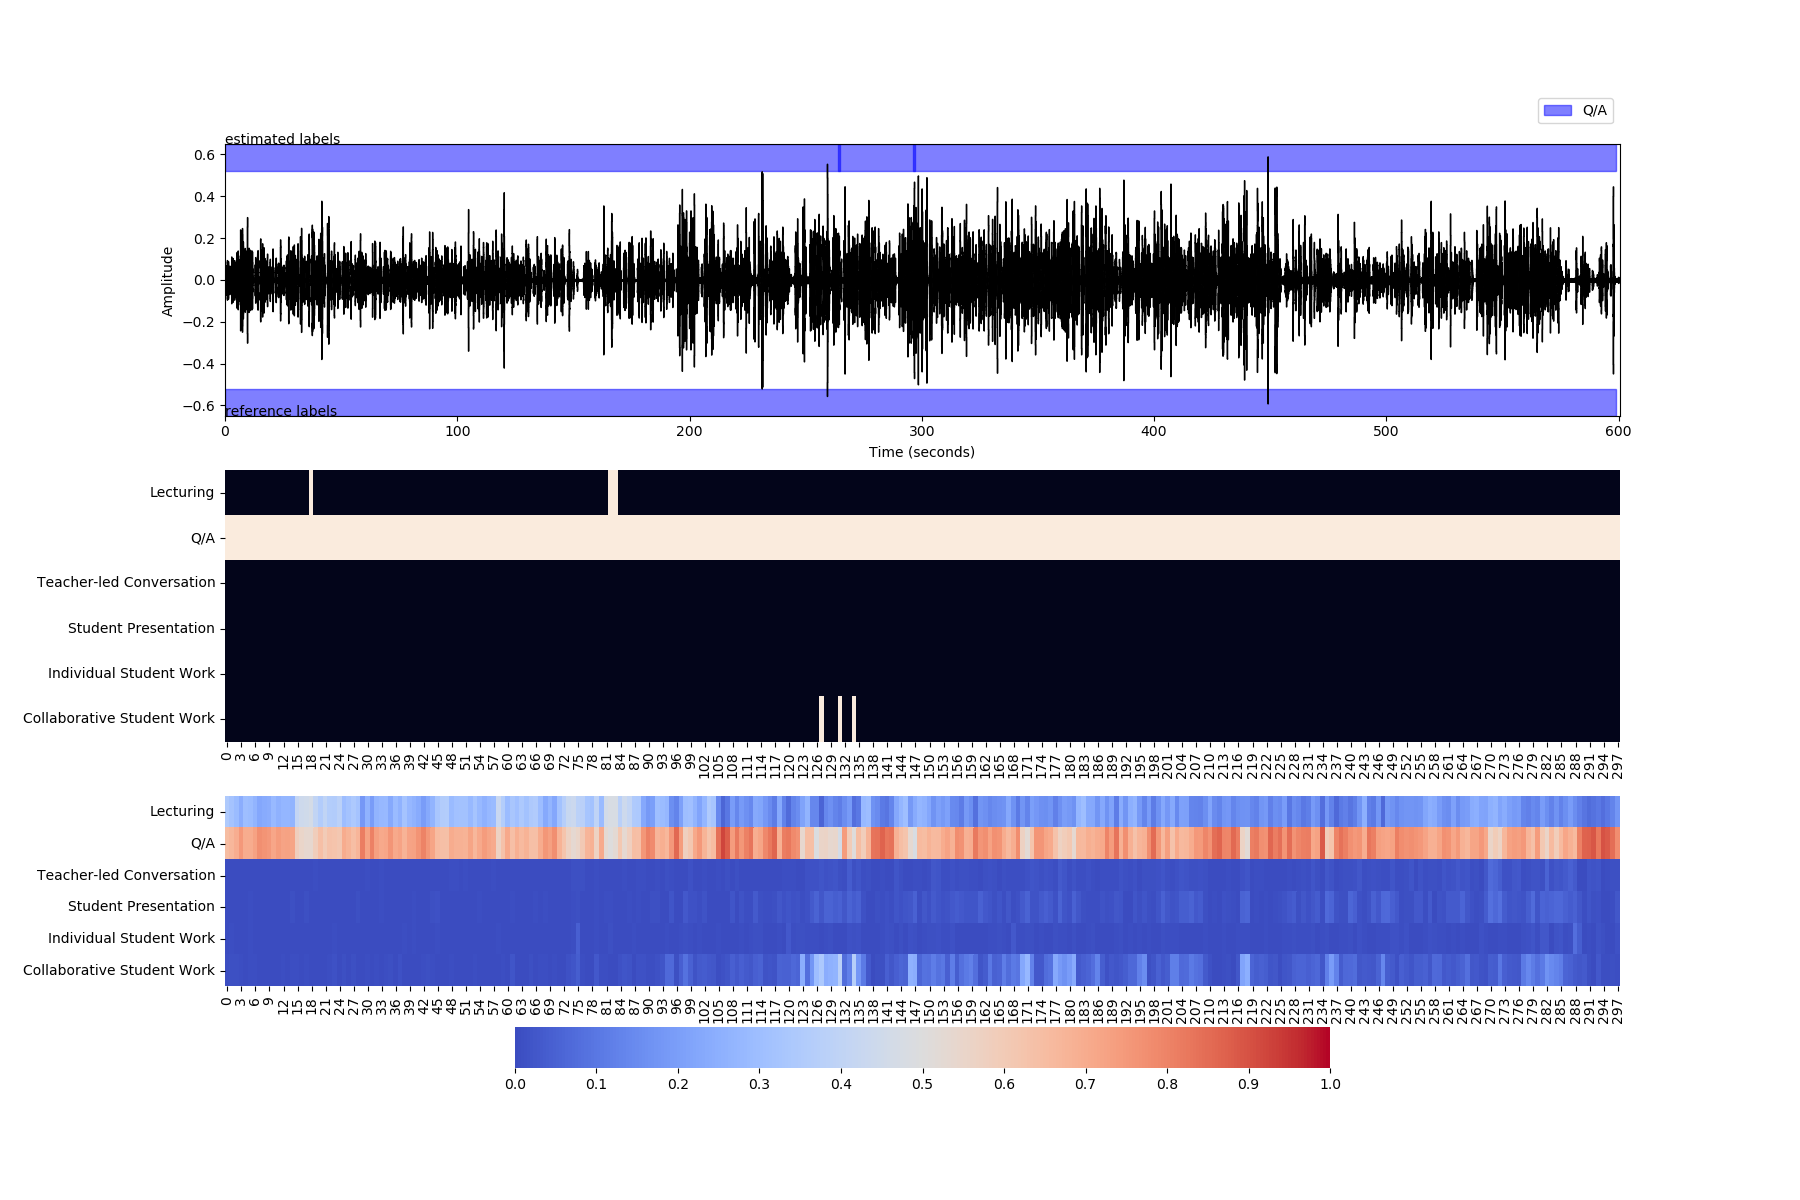
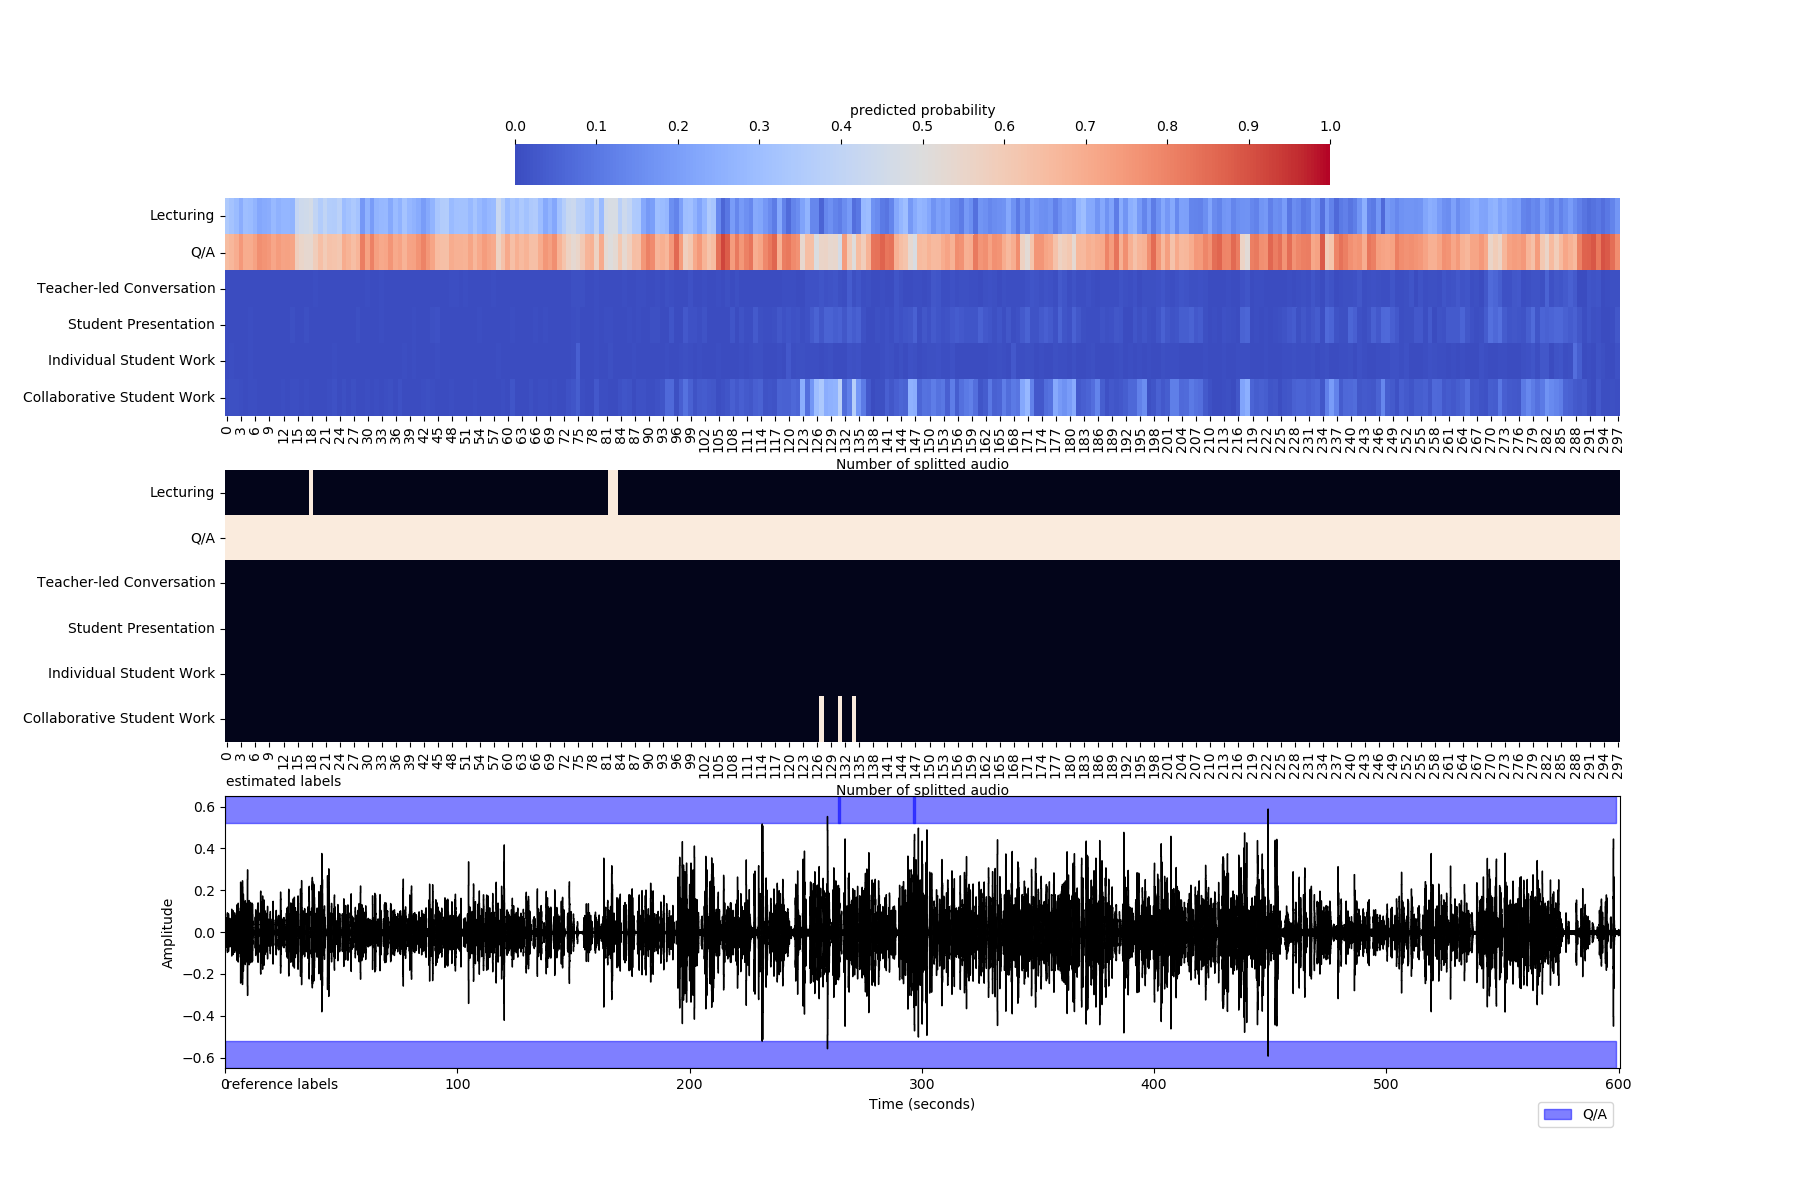
Visualize Features

diff --git a/VisualizeFeature.py b/VisualizeFeature.py
@@ -1,0 +1,180 @@
+import librosa
+import librosa.display
+import matplotlib.pyplot as plt
+import seaborn as sns
+import pickle
+import public_func as F
+import numpy as np
+import os
+from WavToFeatures import WavToFeatures
+from mpl_toolkits.axes_grid1.inset_locator import inset_axes
+import json
+import warnings
+
+
+class Visualizer:
+    def __init__(self, file_name, audio_path, annot_path, cache_path, frac_t, long_frac_t, long_long_frac_t, step_t, target_class_version=0):
+        # init info
+        self.frac_t = frac_t
+        self.step_t = step_t
+        self.long_frac_t = long_frac_t
+        self.long_long_frac_t = long_long_frac_t
+        self.target_class_version = target_class_version
+        self.file_name, self.audio_path, self.annot_path, self.cache_path = file_name, audio_path, annot_path, cache_path
+
+        self.wav, self.sr = librosa.load(os.path.join(audio_path, file_name), sr=22050)
+        with open(annot_path, 'r') as f:
+            self.annot = json.load(f)
+        self.metadict = self.get_metadict(file_name)
+        self.label_dict = F.get_label_dict(target_class_version)
+        self.reverse_label_dict = F.get_reverse_label_dict(target_class_version)
+        self.color_dict = {
+            0: 'red',
+            1: 'blue',
+            2: 'green',
+            3: 'yellow',
+            4: 'orange',
+            5: 'black',
+            6: 'brown'}
+        
+    def get_metadict(self, file_name):
+        for metadict in self.annot:
+            # note: this way to get file name is not ideal
+            file_name_mp4 = metadict['video_url'].split('/')[-1]
+            file_name_wav = file_name_mp4.replace('.mp4', '.wav')
+            if file_name == file_name_wav:
+                return metadict
+        return None
+
+    def _legend_without_duplicate_labels(self, ax):
+        handles, labels = ax.get_legend_handles_labels()
+        unique = [(h, l) for i, (h, l) in enumerate(zip(handles, labels)) if l not in labels[:i]]
+        ax.legend(*zip(*unique), loc='upper right', bbox_to_anchor =(1,-0.1))
+
+    def _save_plot(self, fig, save_path, file_name, suffix):
+        if not os.path.exists(save_path):
+            os.makedirs(save_path)
+        fig.tight_layout()
+        fig.savefig(os.path.join(save_path, file_name.replace('.wav', f'{suffix}.png')))
+
+    def _wav_annot(self, ax):
+
+        librosa.display.waveshow(y=self.wav, sr=self.sr, color='black', x_axis='s', ax=ax)
+        ax.set_xlabel('Time (seconds)')
+        ax.set_ylabel('Amplitude')
+        ax.set_xlim(0, len(self.wav) / self.sr)
+        bottom, top = ax.get_ylim()
+
+        ax.annotate('reference labels', xy=(0.5, bottom-0.1), annotation_clip=False)
+        for frac_dict in self.metadict['tricks']:
+            if frac_dict['labels'][0].lower() != 'other':
+                ax.axvspan(frac_dict['start'], frac_dict['end'], ymin=0, ymax=0.1,
+                           color=self.color_dict[self.label_dict[frac_dict['labels'][0]]], label=frac_dict['labels'][0],
+                           alpha=0.5, zorder=-100)
+
+        self._legend_without_duplicate_labels(ax)
+
+    def _rms(self, ax):
+        X = librosa.stft(self.wav)
+        Y = librosa.amplitude_to_db(np.abs(X), ref=np.max)
+
+        rms = librosa.feature.rms(S=Y)
+        times = librosa.times_like(rms)
+        ax.semilogy(times, rms[0], label='RMS Energy')
+        ax.set_xlabel('Time (seconds)')
+        ax.set(ylabel='RMS Energy', title='RMS')
+        ax.set_xlim(0, len(self.wav) / self.sr)
+
+    def _mfcc(self, fig, ax):
+        mfccs = librosa.feature.mfcc(y=self.wav, sr=self.sr, n_mfcc=20)
+        img = librosa.display.specshow(mfccs, x_axis='s', ax=ax)
+        ax.set_xlabel('Time (seconds)')
+
+        axins1 = inset_axes(
+            ax,
+            width="30%",  # width: 50% of parent_bbox width
+            height="5%",  # height: 5%
+            loc="upper right",
+        )
+        axins1.xaxis.set_ticks_position("bottom")
+        fig.colorbar(img, cax=axins1, orientation="horizontal")
+        ax.set(ylabel='MFCCs', title='MFCC')
+        ax.set_xlim(0, len(self.wav) / self.sr)
+
+    def _spectral_contrast(self, fig, ax):
+        S = np.abs(librosa.stft(self.wav))
+        contrast = librosa.feature.spectral_contrast(S=S, sr=self.sr, n_bands=6, fmin=60)
+
+        img2 = librosa.display.specshow(contrast, x_axis='s', ax=ax)
+        ax.set_xlabel('Time (seconds)')
+
+        axins1 = inset_axes(
+            ax,
+            width="30%",  # width: 50% of parent_bbox width
+            height="5%",  # height: 5%
+            loc="upper right",
+        )
+        axins1.xaxis.set_ticks_position("bottom")
+        fig.colorbar(img2, cax=axins1, orientation="horizontal")
+        ax.set(ylabel='Frequency bands', title='Spectral contrast')
+        ax.set_xlim(0, len(self.wav) / self.sr)
+
+    def _sub_feature_matrix(self, ax, fm, ylabel, title):
+        ax_in = inset_axes(
+            ax,
+            width="30%",  # width: 50% of parent_bbox width
+            height="5%",  # height: 5%
+            loc="upper right",
+        )
+        ax_in.xaxis.set_ticks_position("bottom")
+
+        sns.heatmap(fm.T, cbar=True, cbar_ax=ax_in,
+                    cmap = 'coolwarm', ax=ax, cbar_kws = dict(orientation="horizontal"))
+        ax.set_xlabel('Number of splitted audio')
+        ax.set(ylabel=ylabel, title=title)
+
+    def _feature_matrix(self, ax_spectral, ax_mfcc, ax_rms, load_cache=True):
+        features_matrix = WavToFeatures(self.file_name, self.audio_path, self.cache_path, self.frac_t, self.long_frac_t,
+                                        self.long_long_frac_t, self.step_t).transform(load_cache=load_cache,
+                                                                                      multi_scaling=False)
+        # for training data, the pickle saves [feature_matrix, label_matrix]
+        if isinstance(features_matrix, list):
+            features_matrix = features_matrix[0]
+
+        rms_fm = features_matrix[:, 54:-1]
+        mfcc_fm = features_matrix[:, :40]
+        spectral_fm = features_matrix[:, 40:54]
+
+        self._sub_feature_matrix(ax_spectral, spectral_fm, 'mean and std of spectral contrast bands', 'Spectral Contrast')
+        self._sub_feature_matrix(ax_mfcc, mfcc_fm, 'mean and std of MFCCs', 'MFCC')
+        self._sub_feature_matrix(ax_rms, rms_fm, 'mean and std of RMS', 'RMS')
+
+
+    def plot_raw_features(self, save_path):
+        fig, axes = plt.subplots(4, 1, figsize=(18, 16))
+        self._wav_annot(axes[3])
+        self._rms(axes[2])
+        self._mfcc(fig, axes[1])
+        self._spectral_contrast(fig, axes[0])
+        self._save_plot(fig, save_path, self.file_name, '_raw_features')
+
+    def plot_features_matrix(self, save_path):
+        fig, axes = plt.subplots(4, 1, figsize=(18, 16))
+        self._feature_matrix(axes[0], axes[1], axes[2])
+        self._wav_annot(axes[3])
+        self._save_plot(fig, save_path, self.file_name, '_features_matrix')
+
+if __name__ == "__main__":
+    warnings.simplefilter(action='ignore', category=FutureWarning)
+    
+    frac_t, long_frac_t, long_long_frac_t, step_t = 5, 20, 60, 2
+
+    file_name = '7249b16a-Innovation_2_000.wav'
+    audio_path = 'data/COAS_2/Audios_test'
+    save_path = 'data/COAS_2/Plots'
+    cache_path = 'data/COAS_2/Features_test'
+    annot_path = 'data/COAS_2/Annotation/project-3-at-2022-10-16-23-25-0c5736a4.json'
+
+    visualizer = Visualizer(file_name, audio_path, annot_path, cache_path, frac_t, long_frac_t, long_long_frac_t, step_t, target_class_version=0)
+    visualizer.plot_features_matrix(save_path)
+    visualizer.plot_raw_features(save_path)

diff --git a/StagewiseModelScore.py b/StagewiseModelScore.py
@@ -30,37 +30,37 @@ if __name__ == '__main__':
 
     plot_path = 'Plots'
 
-    print('------------------------------------------------------------------')
+    # print('------------------------------------------------------------------')
 
-    # Version 0: without data augmentation/ multi-scaling, predict threshold
-    cased0 = CASED(frac_t, long_frac_t, long_long_frac_t, step_t, target_class_version=0)
+    # # Version 0: without data augmentation/ multi-scaling, predict threshold
+    # cased0 = CASED(frac_t, long_frac_t, long_long_frac_t, step_t, target_class_version=0)
 
-    cased0.load_train_data(annot_path, audio_path, cache_path, audio_aug_path=None, cache_aug_path=None,
-                           aug_dict_path=None, load_cache=True, num_folds=5, multi_scaling=False)
-    print(
-        f"V0 \nfeatures matrix shape: {cased0.features_matrix_all.shape} \n labels matrix shape: {cased0.labels_matrix_all.shape}")
+    # cased0.load_train_data(annot_path, audio_path, cache_path, audio_aug_path=None, cache_aug_path=None,
+    #                        aug_dict_path=None, load_cache=True, num_folds=5, multi_scaling=False)
+    # print(
+    #     f"V0 \nfeatures matrix shape: {cased0.features_matrix_all.shape} \n labels matrix shape: {cased0.labels_matrix_all.shape}")
 
-    cased0.randomized_search_cv(n_iter_search=10, cache_path=model_cache_path_0, load_cache=False)
+    # cased0.randomized_search_cv(n_iter_search=10, cache_path=model_cache_path_0, load_cache=False)
 
-    cased0.evaluate_all(annot_path, audio_test_path, cache_test_path, eval_test_path_0, trans_prob_01=0.5,
-                        trans_prob_10=0.3, p_state_weight=None, plot=True,
-                        predict_type='threshold', load_cache=True, multi_scaling=False)
+    # cased0.evaluate_all(annot_path, audio_test_path, cache_test_path, eval_test_path_0, trans_prob_01=0.5,
+    #                     trans_prob_10=0.3, p_state_weight=None, plot=True,
+    #                     predict_type='threshold', load_cache=True, multi_scaling=False)
 
-    print('------------------------------------------------------------------')
+    # print('------------------------------------------------------------------')
 
-    # Version 1: with multi-scaling, predict threshold
-    cased1 = CASED(frac_t, long_frac_t, long_long_frac_t, step_t, target_class_version=0)
+    # # Version 1: with multi-scaling, predict threshold
+    # cased1 = CASED(frac_t, long_frac_t, long_long_frac_t, step_t, target_class_version=0)
 
-    cased1.load_train_data(annot_path, audio_path, cache_path, audio_aug_path=None, cache_aug_path=None,
-                           aug_dict_path=None, load_cache=True, num_folds=5, multi_scaling=True)
-    print(
-        f"V123 \nfeatures matrix shape: {cased1.features_matrix_all.shape} \n labels matrix shape: {cased1.labels_matrix_all.shape}")
+    # cased1.load_train_data(annot_path, audio_path, cache_path, audio_aug_path=None, cache_aug_path=None,
+    #                        aug_dict_path=None, load_cache=True, num_folds=5, multi_scaling=True)
+    # print(
+    #     f"V123 \nfeatures matrix shape: {cased1.features_matrix_all.shape} \n labels matrix shape: {cased1.labels_matrix_all.shape}")
 
-    cased1.randomized_search_cv(n_iter_search=10, cache_path=model_cache_path_1, load_cache=False)
+    # cased1.randomized_search_cv(n_iter_search=10, cache_path=model_cache_path_1, load_cache=False)
 
-    cased1.evaluate_all(annot_path, audio_test_path, cache_test_path, eval_test_path_1, trans_prob_01=0.5,
-                        trans_prob_10=0.3, p_state_weight=None, plot=True,
-                        predict_type='threshold', load_cache=True, multi_scaling=True)
+    # cased1.evaluate_all(annot_path, audio_test_path, cache_test_path, eval_test_path_1, trans_prob_01=0.5,
+    #                     trans_prob_10=0.3, p_state_weight=None, plot=True,
+    #                     predict_type='threshold', load_cache=True, multi_scaling=True)
 
     print('------------------------------------------------------------------')
 
@@ -94,20 +94,20 @@ if __name__ == '__main__':
     cased3.evaluate_all(annot_path, audio_test_path, cache_test_path, eval_test_path_3, plot=True,
                         predict_type='viterbi_with_pstate', load_cache=True, multi_scaling=True)
 
-    print('------------------------------------------------------------------')
+    # print('------------------------------------------------------------------')
 
-    # Version 4: with data augmentation and multi-scaling
-    cased4 = CASED(frac_t, long_frac_t, long_long_frac_t, step_t, target_class_version=0)
+    # # Version 4: with data augmentation and multi-scaling
+    # cased4 = CASED(frac_t, long_frac_t, long_long_frac_t, step_t, target_class_version=0)
 
-    cased4.load_train_data(annot_path, audio_path, cache_path, audio_aug_path=audio_aug_path,
-                           cache_aug_path=cache_aug_path,
-                           aug_dict_path=aug_dict_path, load_cache=True, num_folds=5, multi_scaling=True)
-    print(
-        f"V4 \nfeatures matrix shape: {cased4.features_matrix_all.shape} \n labels matrix shape: {cased4.labels_matrix_all.shape}")
+    # cased4.load_train_data(annot_path, audio_path, cache_path, audio_aug_path=audio_aug_path,
+    #                        cache_aug_path=cache_aug_path,
+    #                        aug_dict_path=aug_dict_path, load_cache=True, num_folds=5, multi_scaling=True)
+    # print(
+    #     f"V4 \nfeatures matrix shape: {cased4.features_matrix_all.shape} \n labels matrix shape: {cased4.labels_matrix_all.shape}")
 
-    cased4.randomized_search_cv(n_iter_search=10, cache_path=model_cache_path, load_cache=False)
-    cased4.search_viterbi_params(annot_path, audio_path, cache_path, params_cache_path=model_cache_path,
-                                 eval_result_path=model_cache_path, load_cache_params=False, multi_scaling=True)
+    # cased4.randomized_search_cv(n_iter_search=10, cache_path=model_cache_path, load_cache=False)
+    # cased4.search_viterbi_params(annot_path, audio_path, cache_path, params_cache_path=model_cache_path,
+    #                              eval_result_path=model_cache_path, load_cache_params=False, multi_scaling=True)
 
-    cased4.evaluate_all(annot_path, audio_test_path, cache_test_path, eval_test_path, plot=True,
-                        predict_type='viterbi_with_pstate', load_cache=True, multi_scaling=True)
+    # cased4.evaluate_all(annot_path, audio_test_path, cache_test_path, eval_test_path, plot=True,
+    #                     predict_type='viterbi_with_pstate', load_cache=True, multi_scaling=True)

diff --git a/Visualization.py b/Visualization.py
@@ -26,7 +26,7 @@ class Visualizer:
     def _legend_without_duplicate_labels(self, ax):
         handles, labels = ax.get_legend_handles_labels()
         unique = [(h, l) for i, (h, l) in enumerate(zip(handles, labels)) if l not in labels[:i]]
-        ax.legend(*zip(*unique), loc='lower right', bbox_to_anchor =(1,1.05))
+        ax.legend(*zip(*unique), loc='upper right', bbox_to_anchor =(1,-0.1))
 
     def _save_plot(self, save_path, file_name):
         if not os.path.exists(save_path):
@@ -36,21 +36,21 @@ class Visualizer:
     def _wav_annot(self, file_name, audio_path, reference_dict, estimated_dict):
         wav, sr = librosa.load(os.path.join(audio_path, file_name), sr=22050)
 
-        ax = self.axes[0]
+        ax = self.axes[2]
         librosa.display.waveshow(wav, sr, color='black', x_axis='s', ax=ax)
         ax.set_xlabel('Time (seconds)')
         ax.set_ylabel('Amplitude')
         ax.set_xlim(0, len(wav) / sr)
         bottom, top = ax.get_ylim()
 
-        ax.annotate('reference labels', xy=(0, bottom))
+        ax.annotate('reference labels', xy=(0.5, bottom-0.1), annotation_clip=False)
         for frac_dict in reference_dict:
             if frac_dict['labels'][0].lower() != 'other':
                 ax.axvspan(frac_dict['start'], frac_dict['end'], ymin=0, ymax=0.1,
                            color=self.color_dict[self.label_dict[frac_dict['labels'][0]]], label=frac_dict['labels'][0],
                            alpha=0.5, zorder=-100)
 
-        ax.annotate('estimated labels', xy=(0, top))
+        ax.annotate('estimated labels', xy=(0.5, top+0.05), annotation_clip=False)
         ax.text(0, 0, 'estimation')
         for pred_dict in estimated_dict:
             ax.axvspan(pred_dict['event_onset'], pred_dict['event_offset'], ymin=0.9, ymax=1,
@@ -62,12 +62,13 @@ class Visualizer:
     def _binary_hm(self, binary_pred):
         sns.heatmap(binary_pred, yticklabels=[self.reverse_label_dict[i] for i in range(len(binary_pred))], cbar=False,
                     ax=self.axes[1])
+        self.axes[1].set_xlabel('Number of splitted audio')
 
     def _prob_hm(self, proba_pred):
         prob = np.array([y_pred_prob_label[:, 1] for y_pred_prob_label in proba_pred])
         sns.heatmap(prob, yticklabels=[self.reverse_label_dict[i] for i in range(len(prob))], cbar=True, vmin=0, vmax=1,
-                    cmap = 'coolwarm', ax=self.axes[2], center = 0.5, cbar_kws = dict(use_gridspec=False,location="bottom", ticks=list([i/10 for i in range(11)])))
-
+                    cmap = 'coolwarm', ax=self.axes[0], center = 0.5, cbar_kws = dict(use_gridspec=False, location="top", ticks=list([i/10 for i in range(11)]), label = 'predicted probability'))
+        self.axes[0].set_xlabel('Number of splitted audio')
 
     def plot(self, file_name, audio_path, save_path, reference_dict, estimated_dict, proba_pred, binary_pred):
         self._wav_annot(file_name, audio_path, reference_dict, estimated_dict)
